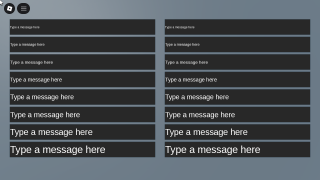
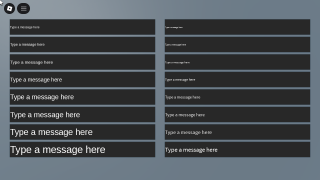
Fidelity: text_sizes sets FontFace with Font, as Studio saves them
The client reads FontFace first and the place carried its default, so the
SourceSans column showed Legacy in the reference. Recaptured: text_sizes
ΔE 2.70 -> 1.78.

diff --git a/crates/rbx_viewer/src/fidelity/scenes.rs b/crates/rbx_viewer/src/fidelity/scenes.rs
@@ -429,8 +429,13 @@ fn text_sizes(b: &mut Builder) {
                 "Text",
                 Variant::String("Type a message here".to_owned()),
             );
+            // Both, as Studio saves them: the client reads `FontFace` first,
+            // and the place carries its default when only `Font` is set.
             if let Some(font) = font {
                 b.set(label, "Font", Variant::Enum(font));
+                if let Some(face) = rbx_dom::Font::from_legacy(font) {
+                    b.set(label, "FontFace", Variant::Font(face));
+                }
             }
         }
     }
